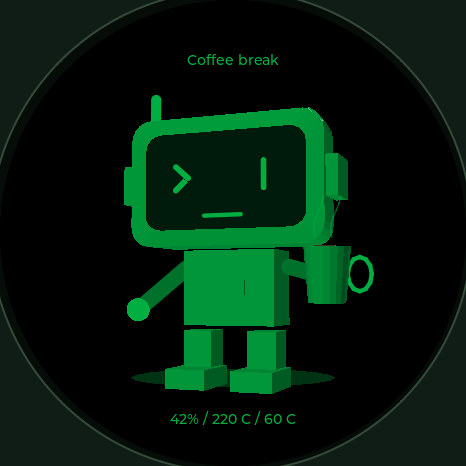
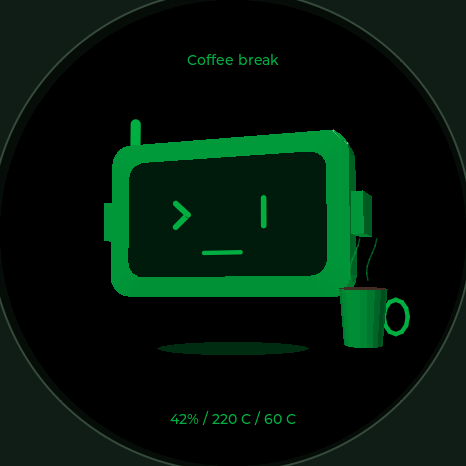
refine: focus 3D idle scenes on the robot head

Changed region(s): [[0.2103, 0.2103, 0.9013, 0.8712]]

diff --git a/simulator/scene3d.cc b/simulator/scene3d.cc
@@ -8,24 +8,24 @@ namespace bambu::studio {
 namespace {
 constexpr float pi=3.14159265359f;
 constexpr std::array<SceneInfo,18> info{{
- {"Game time","Bam plays a tiny game. Thumbs tap, a pixel heart floats above."},
+ {"Game time","Bam plays a tiny game. A floating controller taps along below the head."},
  {"Coffee break","A warm cup rises for a sip. Steam curls into the air."},
  {"Music lover","Headphones on. Bam nods to the beat as little notes drift past."},
  {"Curious explorer","A magnifying glass sweeps around, searching for a new discovery."},
  {"Sleepy afternoon","The head slowly droops, sleepy eyes close, then Bam wakes a little."},
  {"A visiting fly","A fly loops around Bam. The head follows its very unpredictable flight."},
  {"Printer check","Bam watches a miniature printer build one little green cube."},
- {"Print complete!","Arms up, a happy hop, confetti and a check mark. A print to celebrate."},
+ {"Print complete!","A happy head bounce, confetti and a check mark. A print to celebrate."},
  {"Mini racer","A tiny race car, rolling wheels and a road rushing underneath."},
  {"Bubble tea","A cup of pearls, a straw and a very unhurried sip."},
  {"Just chilling","Sunglasses, a drifting cloud and a slow, sunny sway."},
  {"Printer alert","A stopped printer, an alert sign and concerned eyes. A calm error scene."},
- {"Robot disco","A tiny dance floor. Alternating steps, waving arms and a disco sparkle."},
+ {"Robot disco","A tiny dance floor. The head bops and sways under a disco sparkle."},
  {"Plant parent","Bam waters a little sprout. Three drops and a very proud leaf."},
- {"Paper pilot","A paper airplane circles by. Bam follows it and waves."},
+ {"Paper pilot","A paper airplane circles by. Bam turns to follow its flight."},
  {"Little magician","A wand, a star and a levitating cube. No supports required."},
- {"Stretch break","Arms reach up and out. A slow stretch after a long print."},
- {"Hello, maker!","A cheerful wave and a floating heart for the person at the desk."},
+ {"Stretch break","A slow head tilt and neck stretch after a long print."},
+ {"Hello, maker!","A cheerful nod and a floating heart for the person at the desk."},
 }};
 static_assert(info.size()==static_cast<size_t>(Scene::Count));
 uint32_t Shade(uint32_t c,float f) {
@@ -106,7 +106,7 @@ void SceneView::Cup(V c,float r,float h,bool tea){
  for(int j=0;j<2;++j)for(int i=0;i<6;++i)Segment({c.x-5+j*10+std::sin(time_*2+i*.6f)*3,c.y-h/2-5-i*4,c.z},{c.x-5+j*10+std::sin(time_*2+(i+1)*.6f)*3,c.y-h/2-9-i*4,c.z},1,ink_,morph_*.5f);}
 }
 void SceneView::Head(float m,float time){
- float cy=-33*m,hw=85-16*m,hh=48-4*m,depth=1+35*m;
+ float cy=-8*m,hw=85,hh=48+5*m,depth=1+35*m;
  // Rounded extrusion with a bevel, sampled in 24 points per ring.
  std::array<V,24> front,back,inner;
  for(int i=0;i<24;++i){int corner=i/6;float a=(-pi+corner*pi/2)+(i%6)*pi/10;
@@ -138,18 +138,11 @@ void SceneView::Build(){
  if(scene_==Scene::Nap)pitch_=m*(.12f+.22f*(s+1));
  if(scene_==Scene::Music||scene_==Scene::Dance){bob_=m*beat*4;pitch_+=m*beat*.08f;}
  if(scene_==Scene::Complete)bob_-=m*std::max(0.f,std::sin(time_*3))*10;
- if(scene_==Scene::Printer||scene_==Scene::Error||scene_==Scene::Plant)shift_=-28*m;
- // Grounding shadow and a subtle floor ellipse.
- Disc({0,109,50},77,7,theme_==ui::Theme::Black?0x00451B:0x006D2A,m*.75f);
- RobotBox({0,39,8},{65,51*m,34*m},ink_,m);RobotBox({0,39,-10},{24,10*m,2},ui::kBambuGreen,m);
- for(float x:{-23.f,23.f}){RobotBox({x,83,3},{20,30*m,22},ink_,m);RobotBox({x,99,-8},{28,13*m,40},ink_,m);}
- V left=Transform({-62,54,-20}),right=Transform({62,54,-20});
- if(scene_==Scene::Game){left=Transform({-32,58,-77});right=Transform({32,58,-77});}
- if(scene_==Scene::Coffee||scene_==Scene::BubbleTea)right={55,26-std::max(0.f,s)*17,-72};
- if(scene_==Scene::Complete||scene_==Scene::Stretch){left=Transform({-79,-38-8*s,-10});right=Transform({79,-38-8*s,-10});}
- if(scene_==Scene::Wave||scene_==Scene::PaperPlane)right=Transform({87+8*beat,-22,-10});
- if(scene_==Scene::Dance){left=Transform({-82,20+beat*25,0});right=Transform({82,20-beat*25,0});}
- for(int i=0;i<2;++i){V shoulder=Transform({i?38.f:-38.f,25,7}),hand=i?right:left;Segment(shoulder,hand,11,Shade(ink_,.65f),m);Disc(hand,8,8,ink_,m);}
+ if(scene_==Scene::Printer||scene_==Scene::Complete||scene_==Scene::Error||scene_==Scene::Plant)shift_=-28*m;
+ if(scene_==Scene::Stretch){yaw_=m*std::sin(time_*.8f)*.38f;pitch_=m*std::sin(time_*.7f)*.16f;}
+ if(scene_==Scene::Wave){bob_+=m*std::sin(time_*3)*3;pitch_+=m*std::sin(time_*3)*.08f;}
+ // A hovering head and its soft shadow; no torso, arms, hands or legs.
+ Disc({shift_,87,50},57,5,theme_==ui::Theme::Black?0x00451B:0x006D2A,m*.65f);
  Head(m,time_);
  auto line=[&](V a,V b,float w=2,uint32_t c=0){Segment(a,b,w,c?c:ink_,m);};
  auto star=[&](float x,float y,float z,float r){for(int i=0;i<4;++i){float a=i*pi/2;line({x+std::cos(a)*r,y+std::sin(a)*r,z},{x,y,z},2);}};
@@ -157,12 +150,12 @@ void SceneView::Build(){
  case Scene::Game:
   Box({0,58,-80},{82,26,24},ink_,m);line({-27,53,-94},{-27,65,-94},3,0x003A16);line({-33,59,-94},{-21,59,-94},3,0x003A16);
   Disc({24,55+beat,-94},3,3,0x003A16,m);Disc({32,62-beat,-94},3,3,0x003A16,m);star(95,-45+beat*3,0,9);break;
- case Scene::Coffee:case Scene::BubbleTea: Cup({55,24-std::max(0.f,s)*17,-78},14,33,scene_==Scene::BubbleTea);break;
+ case Scene::Coffee:case Scene::BubbleTea: Cup({76,49-std::max(0.f,s)*20,-78},14,33,scene_==Scene::BubbleTea);break;
  case Scene::Music:
-  for(int i=0;i<16;++i){float a=pi+i*pi/16,b=pi+(i+1)*pi/16;line(Transform({80*std::cos(a),-30+62*std::sin(a),0}),Transform({80*std::cos(b),-30+62*std::sin(b),0}),6);}
-  RobotBox({-79,-30,0},{14,35,30},ink_,m);RobotBox({79,-30,0},{14,35,30},ink_,m);
+  for(int i=0;i<16;++i){float a=pi+i*pi/16,b=pi+(i+1)*pi/16;line(Transform({94*std::cos(a),-8+73*std::sin(a),0}),Transform({94*std::cos(b),-8+73*std::sin(b),0}),6);}
+  RobotBox({-94,-8,0},{14,35,30},ink_,m);RobotBox({94,-8,0},{14,35,30},ink_,m);
   for(int j=0;j<3;++j){float x=-105+j*103,y=-58-std::fmod(time_*16+j*22,38.f);Disc({x,y,0},5,3,ink_,m);line({x+4,y,0},{x+4,y-16,0},2);line({x+4,y-16,0},{x+11,y-12,0},2);}break;
- case Scene::Explore:{float x=70+s*12,y=10+beat*5;for(int i=0;i<24;++i){float a=i*pi/12,b=(i+1)*pi/12;line({x+19*std::cos(a),y+19*std::sin(a),-85},{x+19*std::cos(b),y+19*std::sin(b),-85},3);}line({x-14,y+14,-85},{x-35,y+39,-85},6);star(-95,-65,0,6);break;}
+ case Scene::Explore:{float x=91+s*9,y=23+beat*5;for(int i=0;i<24;++i){float a=i*pi/12,b=(i+1)*pi/12;line({x+19*std::cos(a),y+19*std::sin(a),-85},{x+19*std::cos(b),y+19*std::sin(b),-85},3);}line({x-14,y+14,-85},{x-35,y+39,-85},6);star(-95,-65,0,6);break;}
  case Scene::Nap:
   for(int j=0;j<3;++j){float x=70+j*12,y=-80-j*14-std::fmod(time_*8,12.f);line({x,y,0},{x+8,y,0});line({x+8,y,0},{x,y+9,0});line({x,y+9,0},{x+8,y+9,0});}break;
  case Scene::Fly:{float x=std::sin(time_*1.7f)*107,y=-57+std::sin(time_*3.4f)*40;Disc({x,y,-100},5,3,0xA9C8B5,m);Disc({x-3,y-5,-99},5,2+std::abs(beat)*3,0xDDFEEA,m*.6f);Disc({x+4,y-5,-99},5,3,0xDDFEEA,m*.6f);for(int i=1;i<5;++i)Disc({x-i*8,y+std::sin(time_*3-i)*6,-99},1,1,ink_,m*.3f);break;}

diff --git a/docs/3D_SCENES.md b/docs/3D_SCENES.md
@@ -1,6 +1,8 @@
 # Bambu Bot — 3D idle stories
 
-Bản thử nghiệm **Emotion Studio 0.3.0**, triển khai trước trên simulator macOS. Bấm **3D scenes** hoặc **D** để chuyển từ bộ 14 emotion 2D sang bộ 18 hoạt cảnh 3D. Chọn một cảnh để chạy phần mở đầu: mặt phẳng dần có độ dày, thân/tay/chân và đạo cụ xuất hiện trong **1,2 giây**, sau đó bot bắt đầu hoạt động.
+Bản thử nghiệm **Emotion Studio 0.3.1**, triển khai trước trên simulator macOS. Bấm **3D scenes** hoặc **D** để chuyển từ bộ 14 emotion 2D sang bộ 18 hoạt cảnh 3D. Chọn một cảnh để chạy phần mở đầu: mặt phẳng dần có độ dày, đầu robot lớn hơn được đặt giữa màn hình và đạo cụ xuất hiện trong **1,2 giây**, sau đó bot bắt đầu hoạt động.
+
+Từ **0.3.1**, robot chỉ có **phần đầu**; đã bỏ toàn bộ thân, tay, bàn tay, chân và bàn chân. Đầu được phóng lớn, đặt lại gần giữa màn hình; đạo cụ vẫn chuyển động độc lập quanh đầu.
 
 Đây là nhân vật 3D phong cách low-poly: các đỉnh tọa độ XYZ được xoay, chiếu phối cảnh, tô sáng và kiểm tra độ sâu từng pixel bằng CPU. Khung hình được đưa vào LVGL như một ảnh động sinh tại runtime; không dùng video/GIF có sẵn, OpenGL hoặc dịch vụ AI. Các đường cong/đạo cụ là hình học đơn giản để thử hướng mỹ thuật và chuyển động trước.
 
@@ -31,24 +33,24 @@ Các chuyển động diễn ra sau phần mở đầu chung. Bot luôn giữ đ
 
 | Cảnh trong Studio | Diễn biến |
 | --- | --- |
-| Game time | Hai tay đưa tay cầm ra trước → nhịp nút bấm thay đổi → bot lắc nhẹ, biểu tượng game lơ lửng. |
-| Coffee break | Cầm cốc có quai → cốc nhích lên để nhấp → hạ cốc; các vệt hơi uốn nhẹ phía trên. |
+| Game time | Tay cầm game lơ lửng dưới đầu → nhịp nút bấm thay đổi → bot lắc nhẹ, biểu tượng game lơ lửng. |
+| Coffee break | Cốc có quai lơ lửng cạnh đầu → cốc nhích lên để nhấp → hạ cốc; các vệt hơi uốn nhẹ phía trên. |
 | Music lover | Đeo tai nghe → gật đầu theo nhịp → các nốt nhạc trôi lên. |
 | Curious explorer | Nghiêng đầu → đưa kính lúp quét trước mặt → điểm sáng gợi một phát hiện mới. |
 | Sleepy afternoon | Mắt khép → đầu cúi dần → nhích tỉnh rồi lại gật; chữ z trôi lên. |
 | A visiting fly | Ruồi bay vòng số 8 → bot quay đầu theo → cánh ruồi rung và có dấu đường bay. |
 | Printer check | Bot đứng cạnh máy in thu nhỏ → đầu in di chuyển ngang → khối in nhô lên theo chu kỳ minh họa. |
-| Print complete! | Mắt cười → giơ hai tay, nhảy nhẹ → dấu hoàn tất và confetti rơi cạnh máy in. |
-| Mini racer | Bot ngồi sau thân xe nhỏ → vạch tốc độ lướt qua → dấu trên bánh quay liên tục. |
-| Bubble tea | Cầm ly có trân châu và ống hút → nâng ly → hạ ly, lắc đầu thỏa mãn. |
+| Print complete! | Mắt cười → đầu nhảy nhẹ → dấu hoàn tất và confetti rơi cạnh máy in. |
+| Mini racer | Đầu bot nhô lên trên xe nhỏ → vạch tốc độ lướt qua → dấu trên bánh quay liên tục. |
+| Bubble tea | Ly có trân châu và ống hút lơ lửng cạnh đầu → nâng ly → hạ ly, lắc đầu thỏa mãn. |
 | Just chilling | Đeo kính râm → đung đưa chậm → mây trôi dưới nắng nhỏ. |
 | Printer alert | Máy in dừng đầu phun → dấu chấm than đỏ xuất hiện → bot có mắt X và nhìn về phía máy. |
-| Robot disco — bổ sung | Nhún đầu/thân theo nhịp → hai tay đổi độ cao → các ô sàn đổi độ sáng. |
-| Plant parent — bổ sung | Đưa bình tưới về phía chậu → ba giọt nước rơi → mầm cây có hai lá. |
-| Paper pilot — bổ sung | Máy bay giấy lượn theo quỹ đạo → bot quay đầu theo → giơ tay chào máy bay. |
-| Little magician — bổ sung | Giơ đũa phép → tia sao ở đầu đũa → khối lập phương nhấp nhô trên không. |
-| Stretch break — bổ sung | Nâng cả hai tay qua đầu → duỗi nhịp chậm → thả về nhịp vươn tiếp theo. |
-| Hello, maker! — bổ sung | Mắt cười → vẫy một tay → trái tim nhỏ bên cạnh khuôn mặt. |
+| Robot disco — bổ sung | Nhún và nghiêng đầu theo nhịp → các ô sàn đổi độ sáng. |
+| Plant parent — bổ sung | Bình tưới nghiêng về phía chậu → ba giọt nước rơi → mầm cây có hai lá. |
+| Paper pilot — bổ sung | Máy bay giấy lượn theo quỹ đạo → bot quay đầu theo → gật đầu chào máy bay. |
+| Little magician — bổ sung | Đũa phép lơ lửng → tia sao ở đầu đũa → khối lập phương nhấp nhô trên không. |
+| Stretch break — bổ sung | Nghiêng đầu sang hai phía → ngẩng/cúi chậm → trở về giữa. |
+| Hello, maker! — bổ sung | Mắt cười → gật đầu chào → trái tim nhỏ bên cạnh khuôn mặt. |
 
 ![18 3D stories](ui/3d-scenes.png)
 

diff --git a/docs/UI_STUDIO.md b/docs/UI_STUDIO.md
@@ -4,9 +4,9 @@
 
 ![Emotion library](ui/emotion-sheet.png)
 
-## 3D idle stories — thử nghiệm 0.3.0
+## 3D idle stories — thử nghiệm 0.3.1
 
-Bấm **3D scenes** ở thanh trên hoặc phím **D** để mở 18 hoạt cảnh low-poly với intro 2D → 3D. Phím **B** phát lại intro; **Space** duyệt tự động. Có chơi game, cà phê, âm nhạc, tìm tòi, ngủ gật, ruồi, kiểm tra máy in, hoàn tất/lỗi, đua xe, trà sữa, chill và sáu cảnh bổ sung. Xem [bộ kịch bản và giới hạn 3D](3D_SCENES.md). Phần thử nghiệm này chỉ chạy trong simulator, chưa tích hợp vào firmware.
+Bấm **3D scenes** ở thanh trên hoặc phím **D** để mở 18 hoạt cảnh low-poly **chỉ phần đầu robot** với intro 2D → 3D. Phím **B** phát lại intro; **Space** duyệt tự động. Có chơi game, cà phê, âm nhạc, tìm tòi, ngủ gật, ruồi, kiểm tra máy in, hoàn tất/lỗi, đua xe, trà sữa, chill và sáu cảnh bổ sung. Xem [bộ kịch bản và giới hạn 3D](3D_SCENES.md). Phần thử nghiệm này chỉ chạy trong simulator, chưa tích hợp vào firmware.
 
 ![3D Studio](ui/studio-3d.png)
 
@@ -35,7 +35,7 @@ Nếu chưa build firmware và chưa có `managed_components/lvgl__lvgl`, CMake 
 
 ## Điều khiển
 
-Bản **0.2.1** sửa lỗi bỏ qua click nhanh khi cặp nhấn/thả chuột nằm trong cùng lượt xử lý SDL. Nếu đang mở bản cũ, thoát cửa sổ cũ rồi mở lại bản **0.3.0**; phiên bản hiện trên tiêu đề cửa sổ và góc trên bên phải.
+Bản **0.2.1** sửa lỗi bỏ qua click nhanh khi cặp nhấn/thả chuột nằm trong cùng lượt xử lý SDL. Nếu đang mở bản cũ, thoát cửa sổ cũ rồi mở lại bản **0.3.1**; phiên bản hiện trên tiêu đề cửa sổ và góc trên bên phải.
 
 | Thao tác | Kết quả |
 | --- | --- |

diff --git a/README.md b/README.md
@@ -13,7 +13,7 @@ brew install cmake ninja sdl2
 
 ![Bambu Bot emotions](docs/ui/emotion-sheet.png)
 
-Studio **0.3.0** bổ sung [18 kịch bản 3D](docs/3D_SCENES.md) với chuyển 2D → 3D, đạo cụ động và hai theme. Mở bằng nút **3D scenes** hoặc phím **D**; đây là bản thử nghiệm simulator.
+Studio **0.3.1** bổ sung [18 kịch bản 3D](docs/3D_SCENES.md) chỉ phần đầu robot, với chuyển 2D → 3D, đạo cụ động và hai theme. Mở bằng nút **3D scenes** hoặc phím **D**; đây là bản thử nghiệm simulator.
 
 Xem [hướng dẫn Studio](docs/UI_STUDIO.md). Renderer nằm trong `ui/`, tách khỏi SDL để dùng lại trên ESP32; đã tích hợp vào firmware **v0.2.0** cho Desk-bot 280×240.
 
